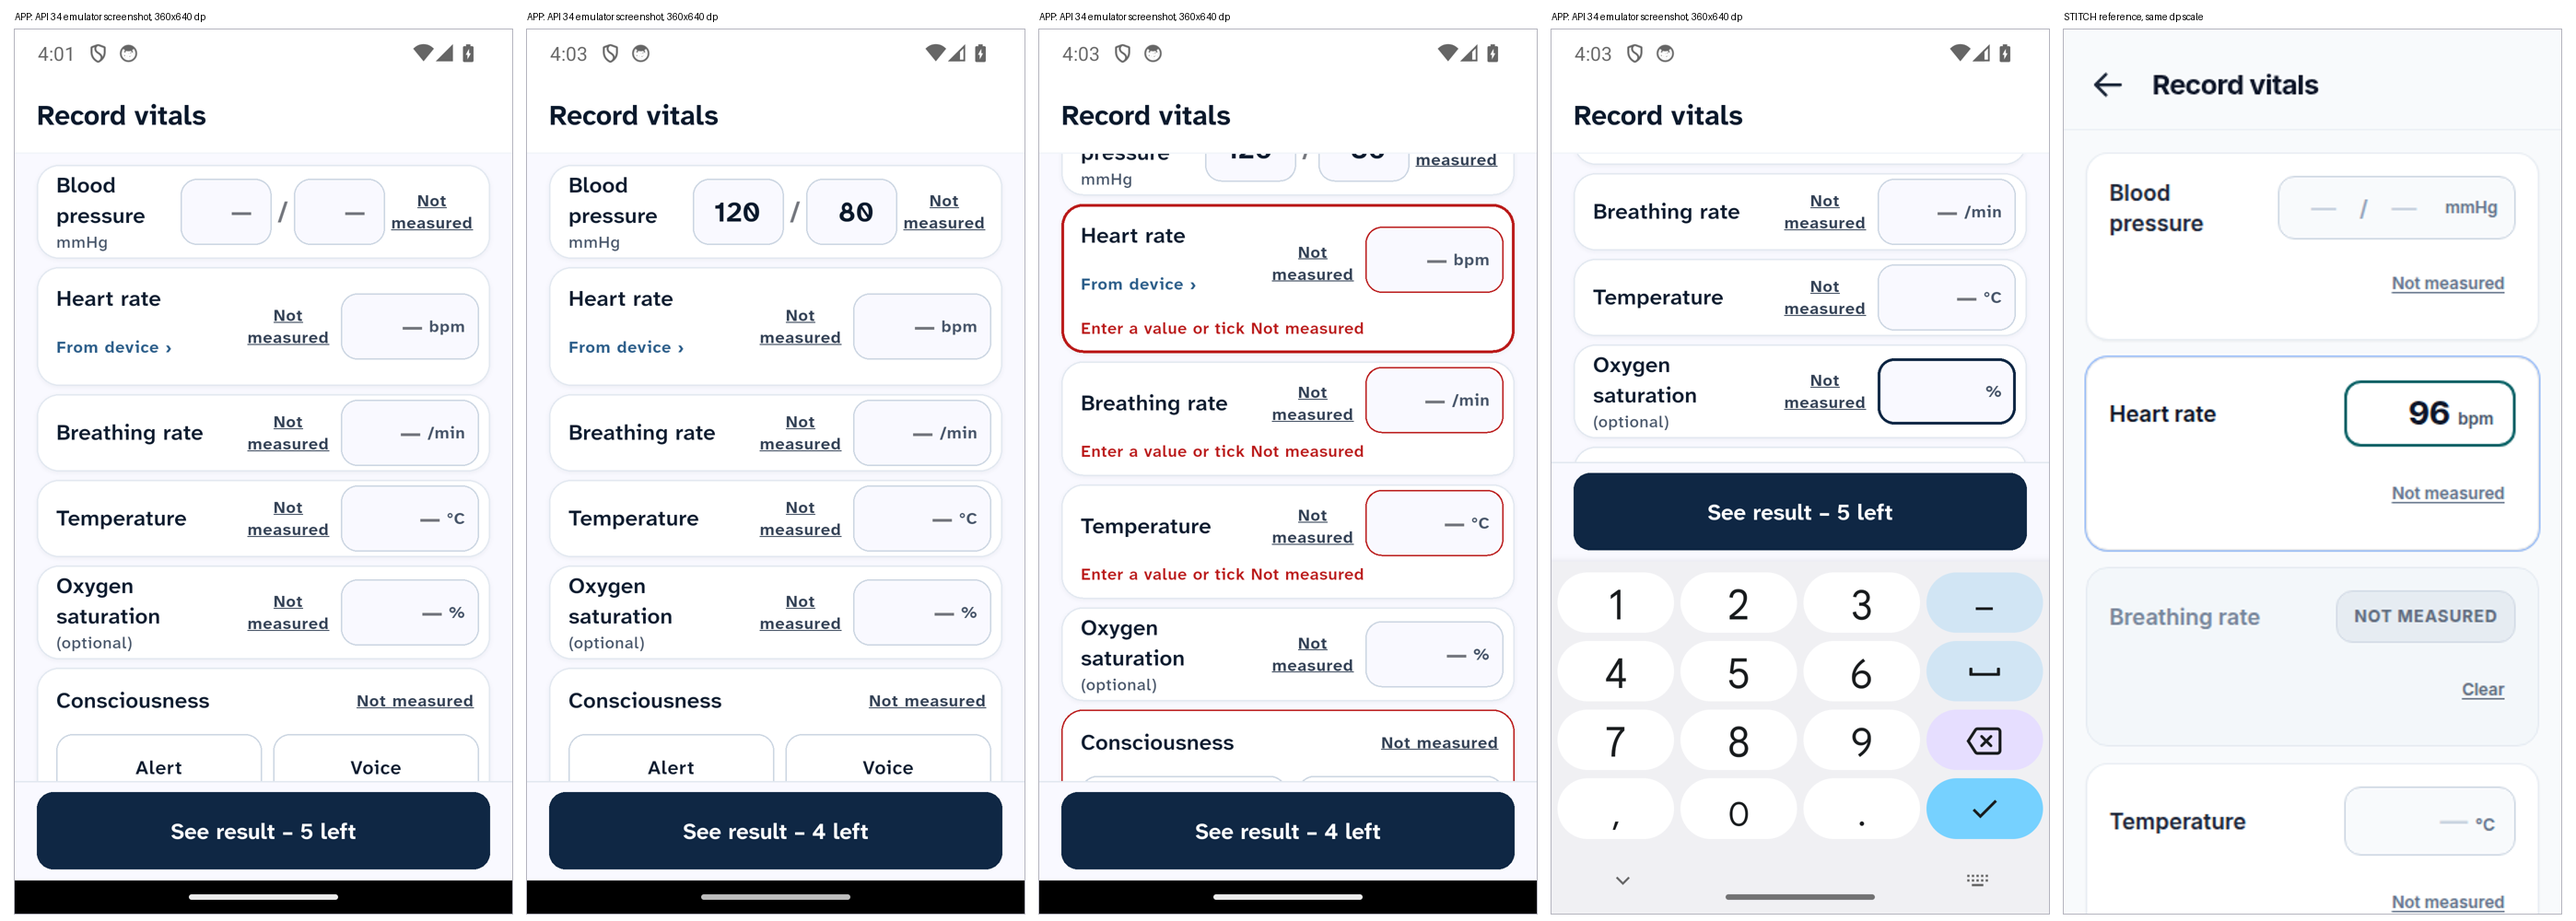
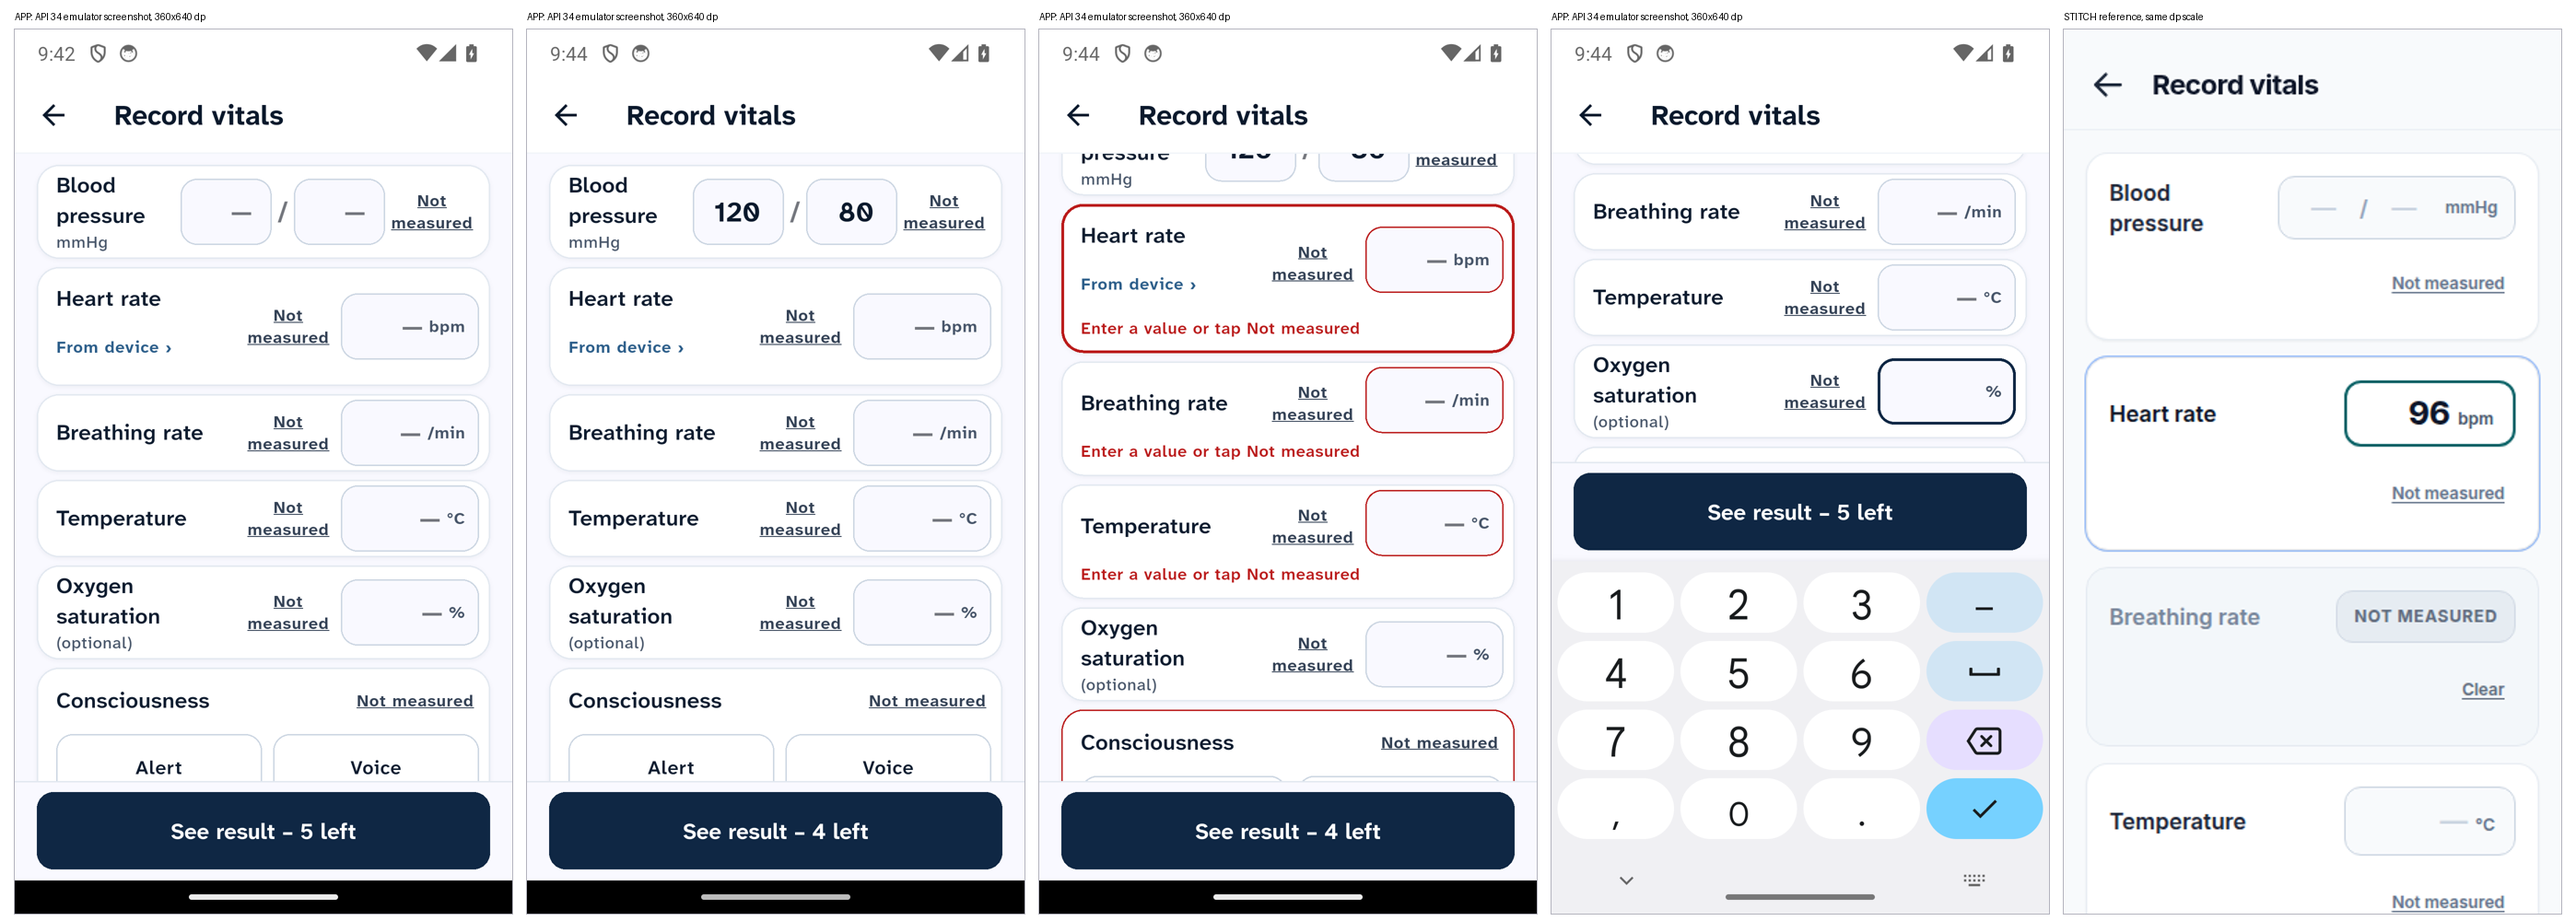
docs(ui): pre-merge fixes, updated PR description and side-by-sides
New API 34 device screenshots (ui360, breathing360) for the changed
screens: Record vitals, Result, the referral form, the not-sent-yet
screen and the breathing check.

diff --git a/docs/audit/UI_REDESIGN_PR.md b/docs/audit/UI_REDESIGN_PR.md
@@ -52,6 +52,17 @@ The flow changes, the backend additions and the deploy order are listed below. R
 - No overflow at 320 dp with 130% text.
 - The keyboard never hides the focused field or the main button.
 
+**Pre-merge fixes:**
+
+- No raw "Request: <id>" line outside test builds: removed from the not-sent-yet screen and
+  the failed-referrals list.
+- Not sent yet: the "Urgent? Call a driver now" card and the Call/SMS rows sit right under
+  the timeline, so the first Call row is on screen at 360×640 without scrolling.
+- "Enter a value or tap Not measured": "tap", not "tick".
+- A visible back arrow in the top bar of Record vitals, Result, the referral form and every
+  breathing-check stage. It behaves as Android back does: leaving while recording stops the
+  recorder, and leaving while analysing cancels the analysis.
+
 ## Flow changes (reviewers: please check these)
 
 1. **Referral form: one bottom button.**
@@ -132,7 +143,7 @@ No configuration changes. `LATE_CLAIM_WINDOW_MINUTES` keeps its default (45).
 ## How it was tested
 
 - `flutter analyze`: no issues.
-- `flutter test`: 560 passed (default build), 561 passed (`MOEWS_ONLY=false`); 0 failed.
+- `flutter test`: 568 passed (default build), 569 passed (`MOEWS_ONLY=false`); 0 failed.
 - Backend: full `pytest`, run with `AT_WEBHOOK_SECRET=`: 712 passed, 5 failed, 4 skipped.
   - The 4 `test_startup_config` failures come from the local `.env` (development settings)
     and also happen on `main`.

diff --git a/docs/audit/UI_REDESIGN.md b/docs/audit/UI_REDESIGN.md
@@ -1346,3 +1346,24 @@ Flow changes are listed in `docs/audit/UI_REDESIGN_PR.md`.
 4. Live-sound check of the breathing pulse.
 5. Cancel for a never-sent referral.
 6. The pre-existing `test_durable_cascade_pg` failure.
+
+## Pre-merge fixes
+
+One commit each:
+
+| Commit | Fix |
+|---|---|
+| `bc2c5e8` | "Request: <id>" only in test builds: not-sent-yet screen and failed-referrals list |
+| `6a90303` | Not sent yet: Urgent card and Call/SMS rows straight under the timeline; first Call row on screen at 360×640 (tested) |
+| `f9434b1` | "Enter a value or tap Not measured" (and "Enter both values…", "Choose a level…") |
+| `73364ef` | Visible back arrow on Record vitals, Result, the form and every breathing-check stage. It is Android back's path: leaving while recording stops the recorder, leaving while analysing cancels the analysis (tested) |
+| `bcb1f9b` | `EMULATOR_PASS.md`: 42 embedded images of removed screenshots replaced by their names and a git recovery command |
+
+Checks:
+
+- `flutter analyze`: no issues.
+- `flutter test`: 568 passed (default), 569 passed (`MOEWS_ONLY=false`).
+- New device screenshots from `ui360` and `breathing360` on API 34 (both pass). The full pass
+  was not rerun.
+- Updated side-by-sides: `05_record_vitals.png`, `06_result.png`, `07_referral_form.png`,
+  `08_dispatch_status.png`, `10_breathing_check.png`.
